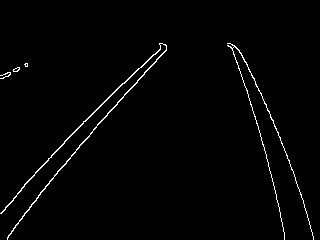
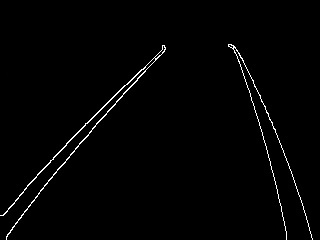
2020年7月31日 16:06:24  报告v0.5

diff --git a/erode_dilate.cpp b/erode_dilate.cpp
@@ -1,0 +1,87 @@
+#include "opencv2/imgproc.hpp"
+#include "opencv2/imgcodecs.hpp"
+#include "opencv2/highgui.hpp"
+#include <stdlib.h>
+#include <stdio.h>
+#include <string>
+using namespace cv;
+static void help()
+{
+printf("\nShow off image morphology: erosion, dialation, open and close\n"
+    "Call:\n   morphology2 [image]\n"
+    "This program also shows use of rect, ellipse and cross kernels\n\n");
+printf( "Hot keys: \n"
+    "\tESC - quit the program\n"
+    "\tr - use rectangle structuring element\n"
+    "\te - use elliptic structuring element\n"
+    "\tc - use cross-shaped structuring element\n"
+    "\tSPACE - loop through all the options\n" );
+}
+Mat src, dst;
+int element_shape = MORPH_RECT;
+//the address of variable which receives trackbar position update
+int max_iters = 10;
+int open_close_pos = 0;
+int erode_dilate_pos = 0;
+// callback function for open/close trackbar
+static void OpenClose(int, void*)
+{
+    int n = open_close_pos - max_iters;
+    int an = n > 0 ? n : -n;
+    Mat element = getStructuringElement(element_shape, Size(an*2+1, an*2+1), Point(an, an) );
+    if( n < 0 )
+        morphologyEx(src, dst, MORPH_OPEN, element);
+    else
+        morphologyEx(src, dst, MORPH_CLOSE, element);
+    imshow("Open/Close",dst);
+}
+// callback function for erode/dilate trackbar
+static void ErodeDilate(int, void*)
+{
+    int n = erode_dilate_pos - max_iters;
+    int an = n > 0 ? n : -n;
+    Mat element = getStructuringElement(element_shape, Size(an*2+1, an*2+1), Point(an, an) );
+    if( n < 0 )
+        erode(src, dst, element);
+    else
+        dilate(src, dst, element);
+    imshow("Erode/Dilate",dst);
+}
+int main( int argc, char** argv )
+{
+    cv::CommandLineParser parser(argc, argv, "{help h||}{ @image | ../data/baboon.jpg | }");
+    if (parser.has("help"))
+    {
+        help();
+        return 0;
+    }
+    std::string filename = parser.get<std::string>("@image");
+    if( (src = imread(filename,IMREAD_COLOR)).empty() )
+    {
+        help();
+        return -1;
+    }
+    //create windows for output images
+    namedWindow("Open/Close",1);
+    namedWindow("Erode/Dilate",1);
+    open_close_pos = erode_dilate_pos = max_iters;
+    createTrackbar("iterations", "Open/Close",&open_close_pos,max_iters*2+1,OpenClose);
+    createTrackbar("iterations", "Erode/Dilate",&erode_dilate_pos,max_iters*2+1,ErodeDilate);
+    for(;;)
+    {
+        OpenClose(open_close_pos, 0);
+        ErodeDilate(erode_dilate_pos, 0);
+        char c = (char)waitKey(0);
+        if( c == 27 )
+            break;
+        if( c == 'e' )
+            element_shape = MORPH_ELLIPSE;
+        else if( c == 'r' )
+            element_shape = MORPH_RECT;
+        else if( c == 'c' )
+            element_shape = MORPH_CROSS;
+        else if( c == ' ' )
+            element_shape = (element_shape + 1) % 3;
+    }
+    return 0;
+}

diff --git a/carline.py b/carline.py
@@ -1,11 +1,11 @@
-#%% 
+# %%
 import matplotlib.pyplot as plt
 import matplotlib.image as mpimg
 import numpy as np
 import cv2
 
-#%%  matplotlib inline
- 
+# %% matplotlib inline
+
 image = cv2.imread('519.jpg')
  
 print('This image is:', type(image), 'with dimensions:', image.shape)
@@ -13,13 +13,17 @@ import math
  
 def grayscale(img):
     """
-    将图像处理为灰度图像，因为使用cv2read所以要用BGR进行转换
+    将图像处理为二值化图像，中间需要灰度图像进行过渡
     
     """
-    return cv2.cvtColor(img, cv2.COLOR_BGR2GRAY)
+    gray = cv2.cvtColor(image, cv2.COLOR_BGR2GRAY)
+    ret, binary = cv2.threshold(gray, 0, 255, cv2.THRESH_BINARY | cv2.THRESH_OTSU)
+
+    return binary
     
 def canny(img, low_threshold, high_threshold):#返回image，边缘部分为255，其余为0
- 
+
+    img = cv2.erode(img, cv2.getStructuringElement(cv2.MORPH_RECT, (4, 4)))  # 腐蚀操作，去除边缘干扰
     return cv2.Canny(img, low_threshold, high_threshold)
  
 def gaussian_blur(img, kernel_size):
@@ -81,6 +85,7 @@ def hough_lines(img, rho, theta, threshold, min_line_len, max_line_gap):
     print(lines.shape)
     line_img = np.zeros((img.shape[0], img.shape[1], 3), dtype=np.uint8)
     # draw_lines(line_img, lines)
+    # plt.show(line_img)
     return line_img
  
  
@@ -90,6 +95,7 @@ def weighted_img(img, initial_img, α=0.8, β=1., γ=0.):
  
 ini_image = cv2.imread("519.jpg")
 plt.imshow(ini_image)
+# plt.show()
 imshape=ini_image.shape
 gray=grayscale(ini_image)
 #after灰度处理
@@ -151,14 +157,11 @@ max_line_gap=10
 lines=hough_lines(partial, rho, theta, threshold, min_line_len, max_line_gap)
 final=weighted_img(lines,ini_image)
 cv2.imshow('Final', final)
+# plt.show()
 cv2.waitKey(0)
 cv2.destroyAllWindows()
 
 
-# %%
-cv2.imwrite("result_edges.jpg",edges)
 
-# %%
-cv2.imwrite("result_mat.jpg",vertices)
 
 # %%

diff --git a/test.cpp b/test.cpp
@@ -1,0 +1,73 @@
+get_F = (unsigned int)recv[1] + (unsigned int)recv[2]*256;
+get_S = (unsigned int)recv[3] + (unsigned int)recv[4]*256; 
+if(get_F==0)
+{
+    sp=get_S;
+    sp=sp-1500;
+}
+else
+{
+    angle=get_F;
+    angle=angle-1500;
+    Judge_Status=get_S;
+}
+
+if(avoid_label==0%% stop_label==0)
+ {
+    if(Judge_Status==2 or sp==0)//识别到了红灯或停车
+    {
+        speed(0,0);
+    }
+    else
+    {     
+        if(Judge_Status==0)
+        {
+            speed(sp-(angle)*0.2,sp+(angle)*0.2);
+        }
+        if(Judge_Status==1)
+        {                 
+            speed(sp-(angle)*0.2,sp+(angle)*0.2);
+        }
+        if(Judge_Status==8)
+        {
+            stop_label=1;
+        }
+        if(Judge_Status==7)
+        {         
+            avoid_label=1;    
+        }
+    }
+}
+
+R_pre_err = R_cur_err;
+R_cur_cnt = Right_cnt;
+R_cur_err = sp_r*2.98 - R_cur_cnt;
+R_err_sum += R_cur_err;
+R_dt_err = R_cur_err - R_pre_err;
+
+pwm_send.right += (R_cur_err * KP) + (R_err_sum * KI) + (R_dt_err * KD);
+
+if(pwm_send.right > 255)
+{
+    pwm_send.right = 255;
+}
+else if(pwm_send.right < 0)
+{
+    pwm_send.right = 0;
+}
+L_pre_err = L_cur_err;
+L_cur_cnt = Left_cnt;
+L_cur_err = sp_l*2.98 - L_cur_cnt;
+L_err_sum += L_cur_err;
+L_dt_err = L_cur_err - L_pre_err;
+    
+pwm_send.left += (L_cur_err * KP) + (L_err_sum * KI) + (L_dt_err * KD);
+
+if(pwm_send.left > 255)
+{
+    pwm_send.left = 255;
+｝
+else if(pwm_send.left < 0)
+{
+    pwm_send.left = 0;
+}

diff --git a/erode.py b/erode.py
@@ -1,0 +1,32 @@
+'''
+from matplotlib import pyplot as pl
+import numpy as np
+
+x = np.linspace(0, 30, 30)
+y = np.sin(x/6*np.pi)
+error = np.random.normal(0.1, 0.02, size=y.shape)
+y += np.random.normal(0, 0.1, size=y.shape)
+
+pl.plot(x, y, 'k-')
+pl.fill_between(x, y-error, y+error)
+pl.show()
+'''
+import cv2
+
+def erode_demo(image):
+    # print(image.shape)
+    # gray = cv2.cvtColor(image, cv2.COLOR_BGR2GRAY)
+    # ret, binary = cv2.threshold(gray, 0, 255, cv2.THRESH_BINARY | cv2.THRESH_OTSU)
+    # cv2.imshow("binary", binary)
+    binary = image
+    cv2 .imshow("input",binary)
+    # kernel = cv2.getStructuringElement(cv2.MORPH_RECT, (3, 3))
+    dst = cv2.erode(binary, cv2.getStructuringElement(cv2.MORPH_RECT, (4, 4)),iterations=1)
+    cv2.imshow("erode", dst)
+    cv2.imwrite("erode.jpg",dst)
+
+
+image = cv2.imread("519.jpg")
+erode_demo(image)
+
+cv2.waitKey(0)

diff --git a/test.py b/test.py
@@ -1,19 +1,3 @@
-import cv2 
-import numpy as np
-
-a = cv2.imread("1.jpg")
-b = cv2.cvtColor(a, cv2.COLOR_BGR2HSV)
-
-cv2.namedWindow("RGB", cv2.WINDOW_AUTOSIZE)
-cv2.imshow("input",a)
-cv2.namedWindow("HSV", cv2.WINDOW_AUTOSIZE)
-cv2.imshow("output",b)
-cv2.imwrite("1_hsv.jpg",b)
-
-
-cv2.waitKey(0)
-'''
-if 0xFF != ord('q'):
-    cv2.waitKey(1) 
-cv2.destroyAllWindows()
-'''
+a = 160
+b = a > 200;
+print(b)

diff --git a/tempCodeRunnerFile.py b/tempCodeRunnerFile.py
@@ -1,0 +1,1 @@
+OTSU)
